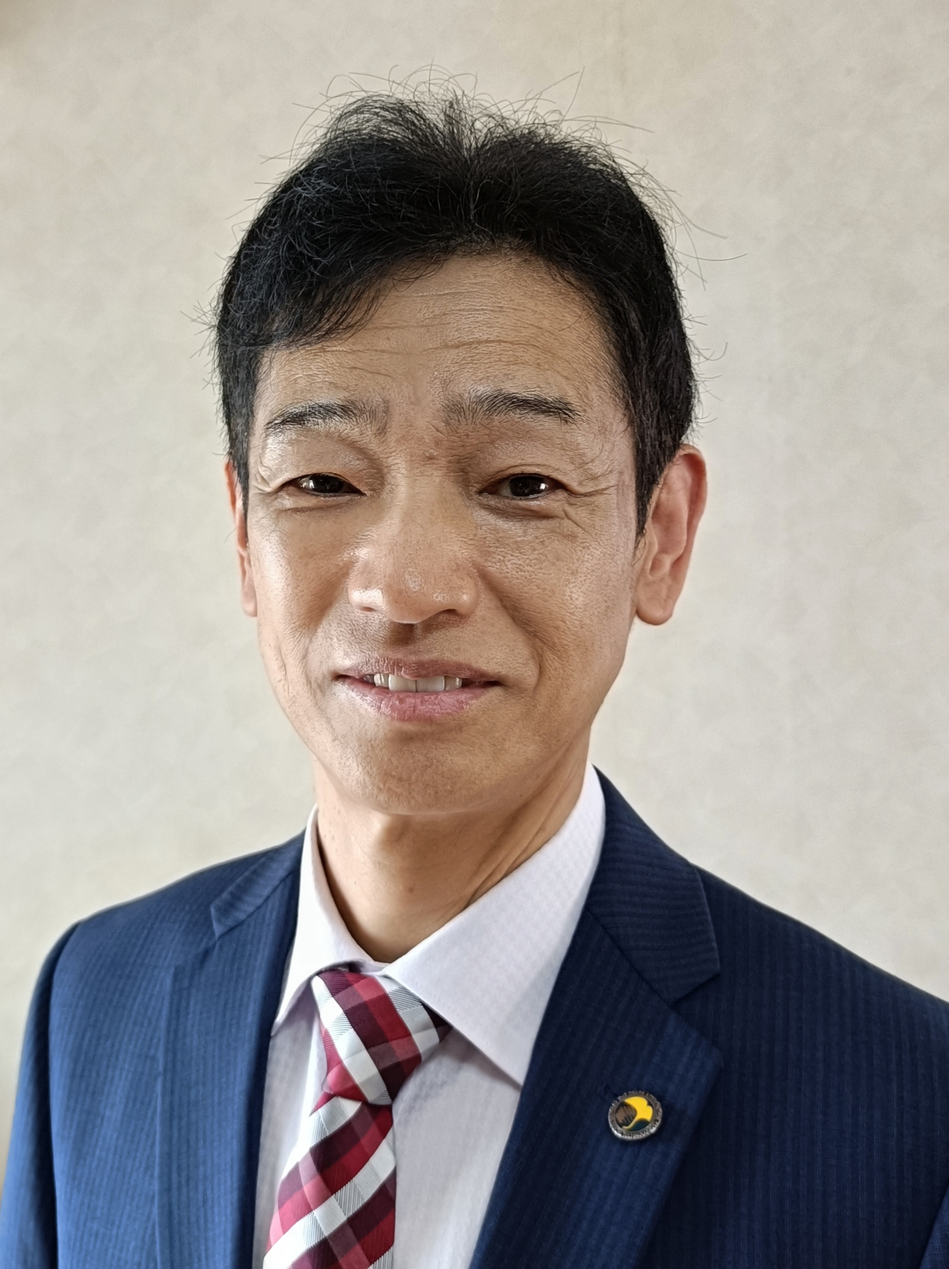
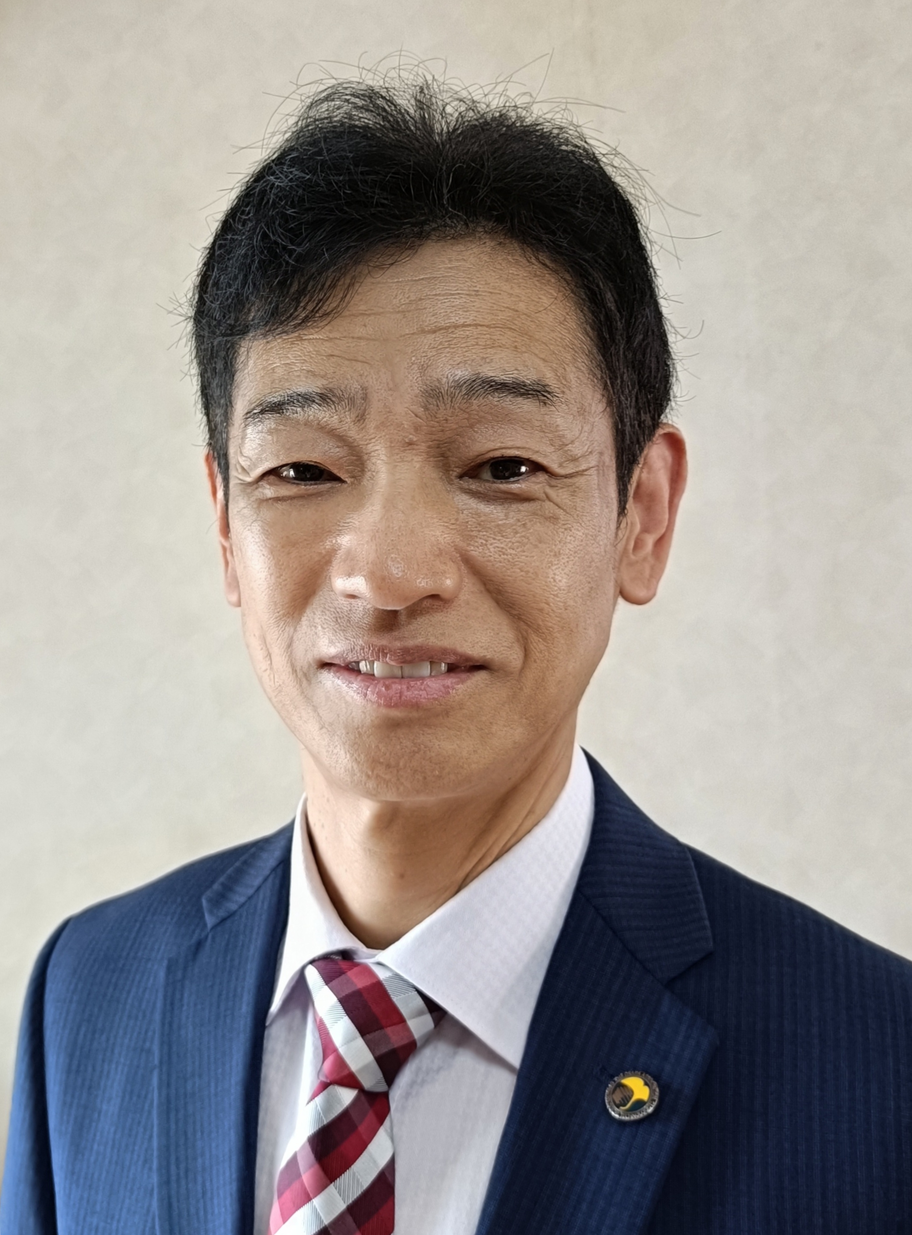
20251110

diff --git a/lib/string_info.dart b/lib/string_info.dart
@@ -3,7 +3,7 @@ const Map<int, Map<String, String>> pageTexts = {
     "title": "参加者の皆様へ",
     "content": """
 1. 参加登録について，
-参加登録期間：令和7年10月1日（水）～11月2日（日）
+参加登録期間：15日（土）まで延長
 学術大会への参加は当日参加も可能ですが,お弁当の準備の都合上,原則事前に参加登録をお願いします.
 当日，受付にて参加登録可能ですが，お弁当の準備はございません．
 ランチョンセミナー開始5分後からお弁当が余りがある場合に限り，配布いたします．
